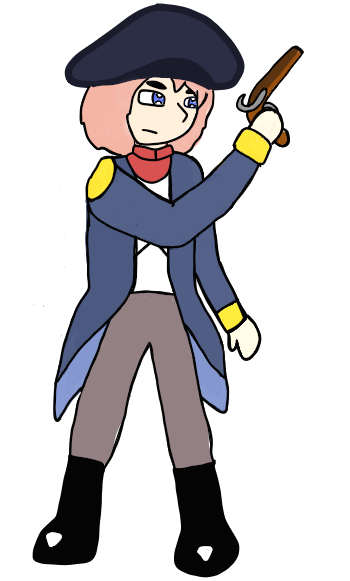
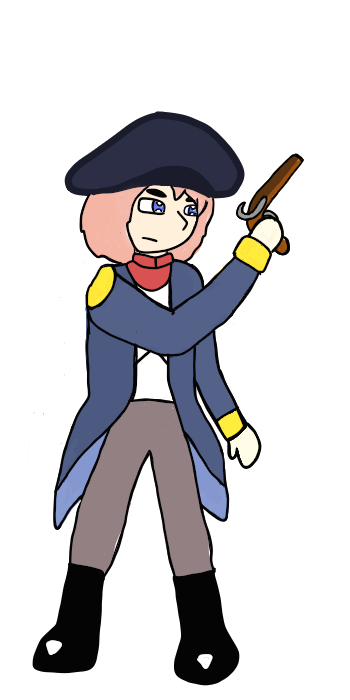
Created new character art (sword attack)

diff --git a/mainwindow.cpp b/mainwindow.cpp
@@ -60,6 +60,7 @@ void MainWindow::on_SwordAttack_clicked()
         ui->stackedWidget->setCurrentIndex(3);
         ui->Action->setText(gameManager->GetCurrentAction());
         gameManager->SetCurrentAction(gameManager->GetCurrentAction());
+        ui->Player_Phase2->setPixmap(QPixmap(":/Images/Characters/dominique-sword-prepare.png"));
         DrawCard();
     }
 }
@@ -269,6 +270,12 @@ void MainWindow::on_Ace10_clicked()
 void MainWindow::on_Stop_clicked()
 {
     ResetCardBoard();
+    if (gameManager->GetPointsInCurrentTurn() > 21)
+    {
+        on_EnemyTurnButton_clicked();
+        return;
+    }
+
     ui->stackedWidget->setCurrentIndex(4);
     ui->ActionMessage->setVisible(true);
     ui->ActionMessage->setText(player->GetName() + " used " + gameManager->GetCurrentAction());
